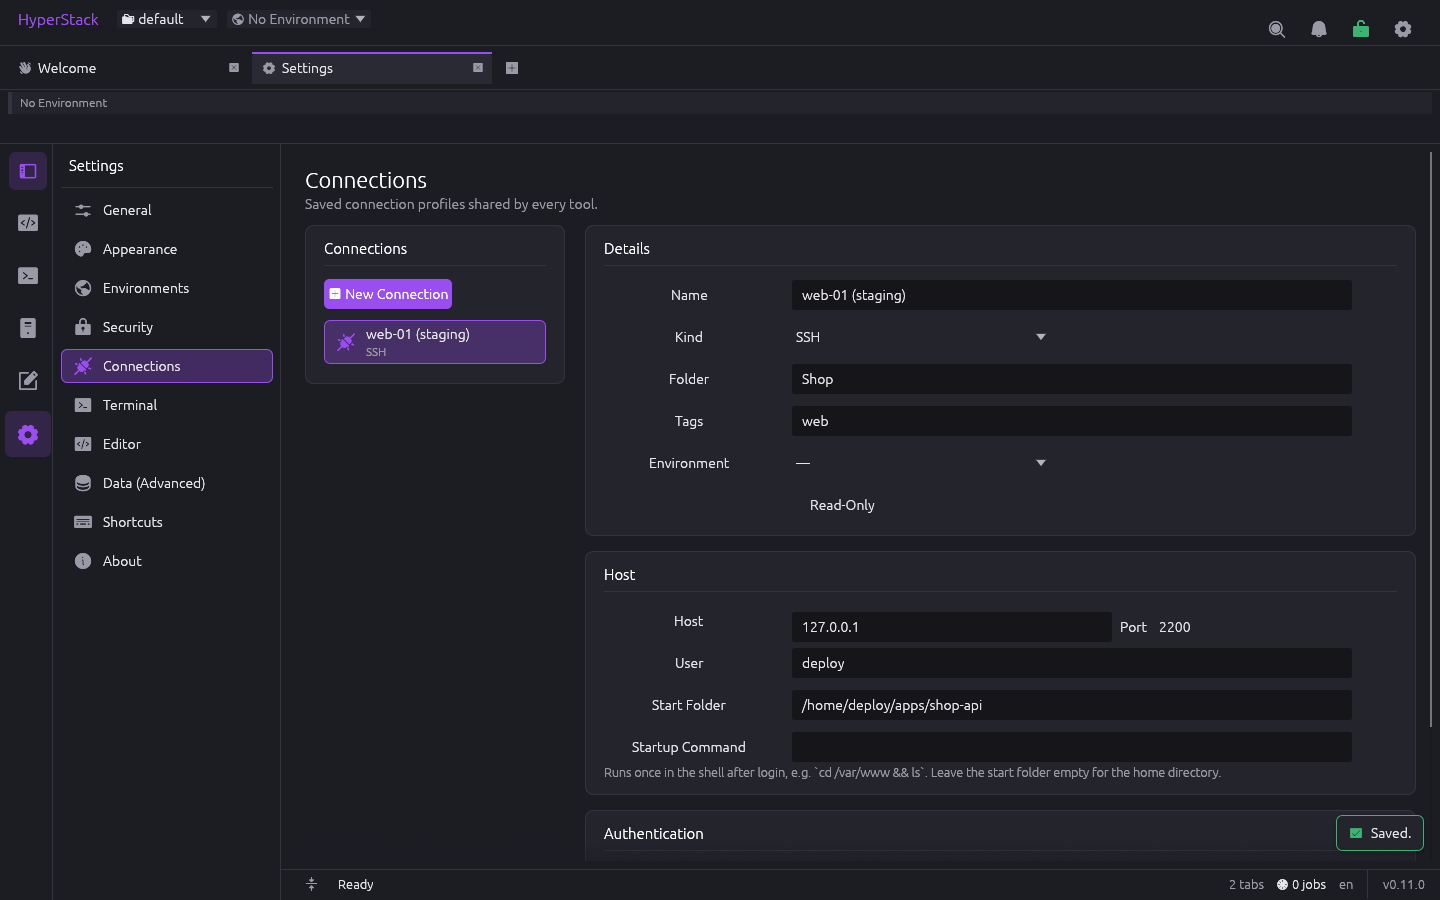
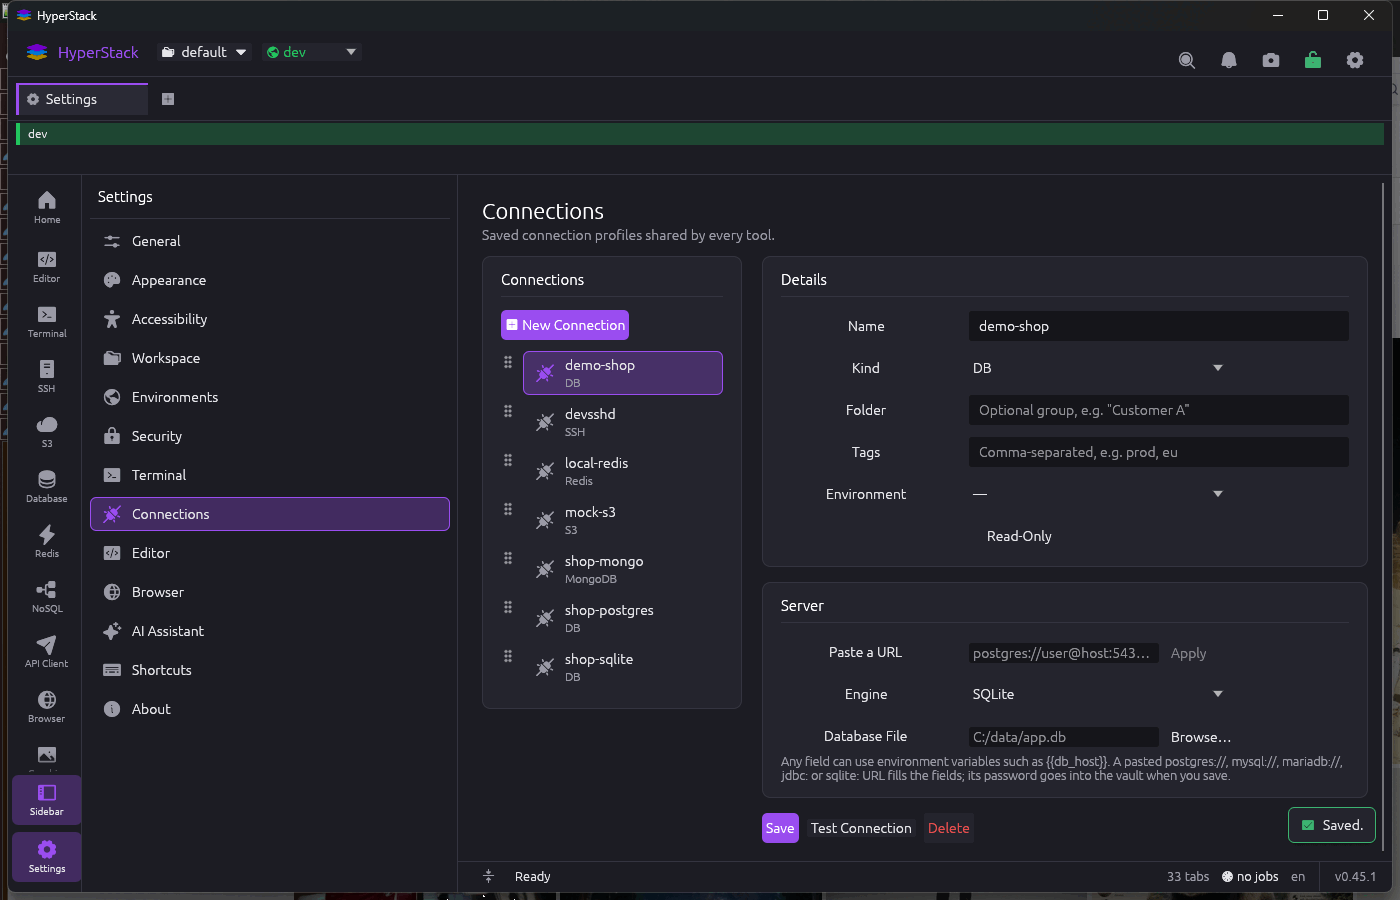
docs: refresh the saved-connection screenshot
Saving the SQLite demo-shop profile shows the list update and the Saved\nnotice; the connection caption now says secrets go to the vault without\nclaiming every profile has one.

diff --git a/README.md b/README.md
@@ -117,7 +117,7 @@ directly after the permanent one.
 | ![Create vault](docs/screenshots/vault-create.png) | ![Unlock vault](docs/screenshots/vault-unlock.png) |
 | **Create the vault** on first run (Argon2id + XChaCha20-Poly1305) | **Unlock** on start; the title-bar padlock locks it again |
 | ![SSH connection form](docs/screenshots/connection-ssh-form.png) | ![Saved connection](docs/screenshots/connection-saved.png) |
-| **Connection profile** (kind SSH) — host, user, start folder, auth | **Saved** — the password lives in the vault, the profile keeps a `secret:` reference |
+| **Connection profile** (kind SSH) — host, user, start folder, auth | **Saved** — every tool sees the profile at once; typed secrets go to the vault and the profile keeps a `secret:` reference |
 
 ### Editor
 
